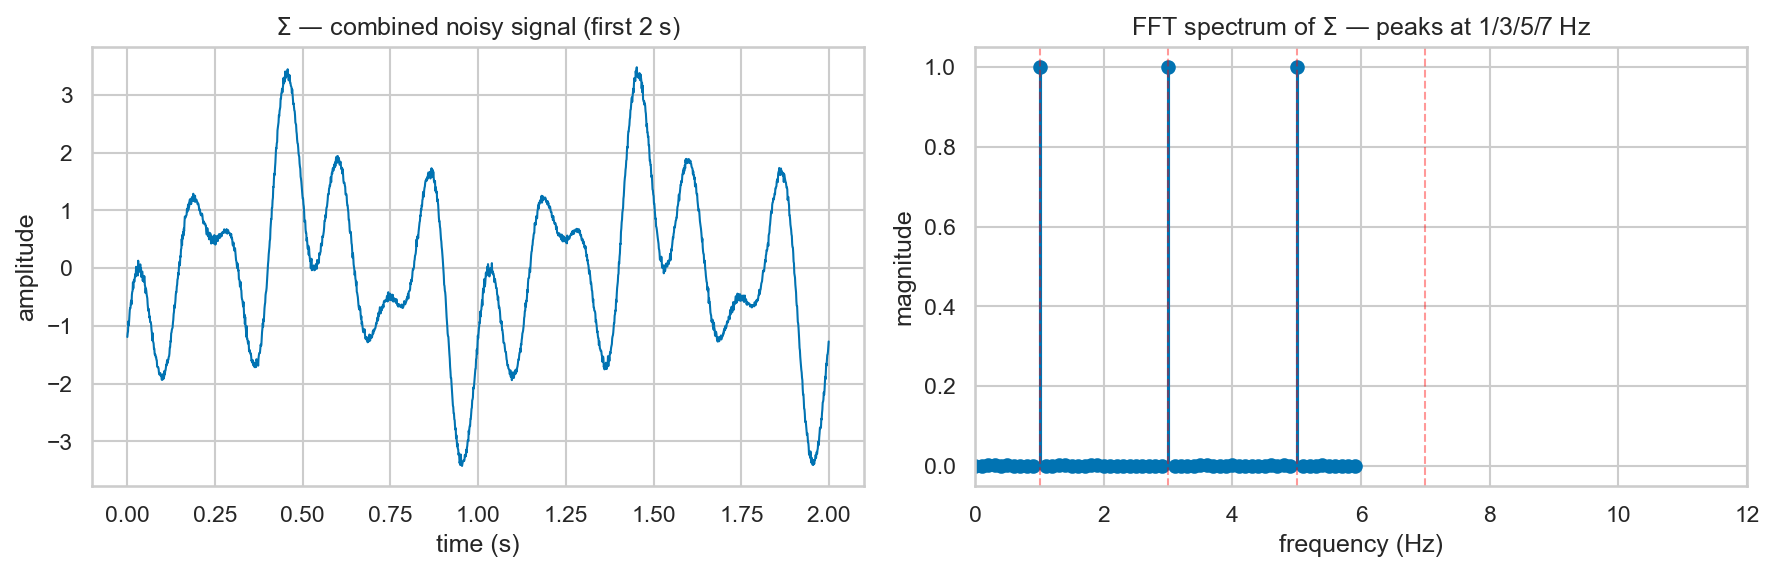
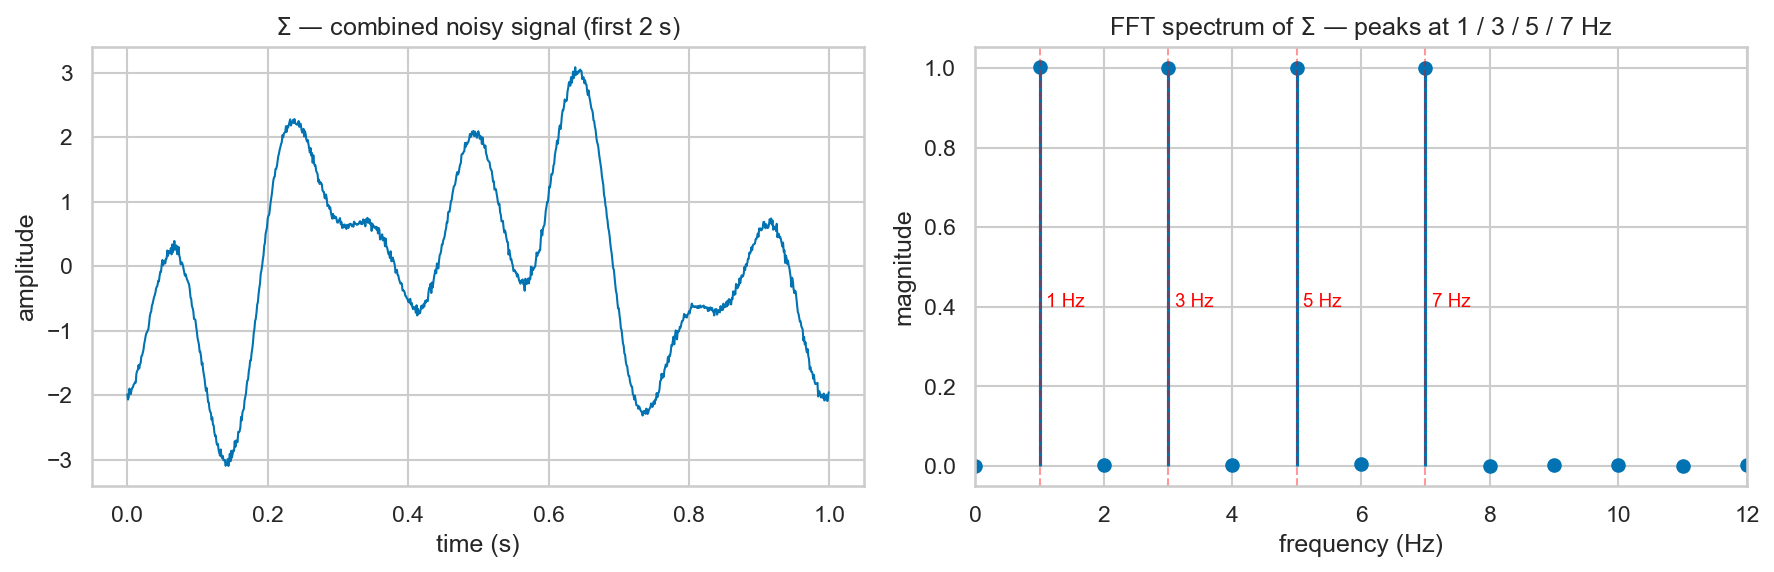
notebook: expand depth — fix FFT xlim to show 7 Hz peak, add signal-model + loss + verdict-rule LaTeX blocks, add mechanistic interpretation cell explaining why H1+H3 disconfirmed (10ms window << period of every target freq); 21 cells (10 md + 11 code), 8 display equations, 30 inline math; bump 1.01

diff --git a/src/sinusoid_extractor/shared/version.py b/src/sinusoid_extractor/shared/version.py
@@ -6,7 +6,7 @@ Starts at 1.00 and bumps by +0.01 per change. Configs carry their own
 
 from __future__ import annotations
 
-__version__ = "1.01"
+__version__ = "1.02"
 
 
 def parse(version: str) -> tuple[int, int]: